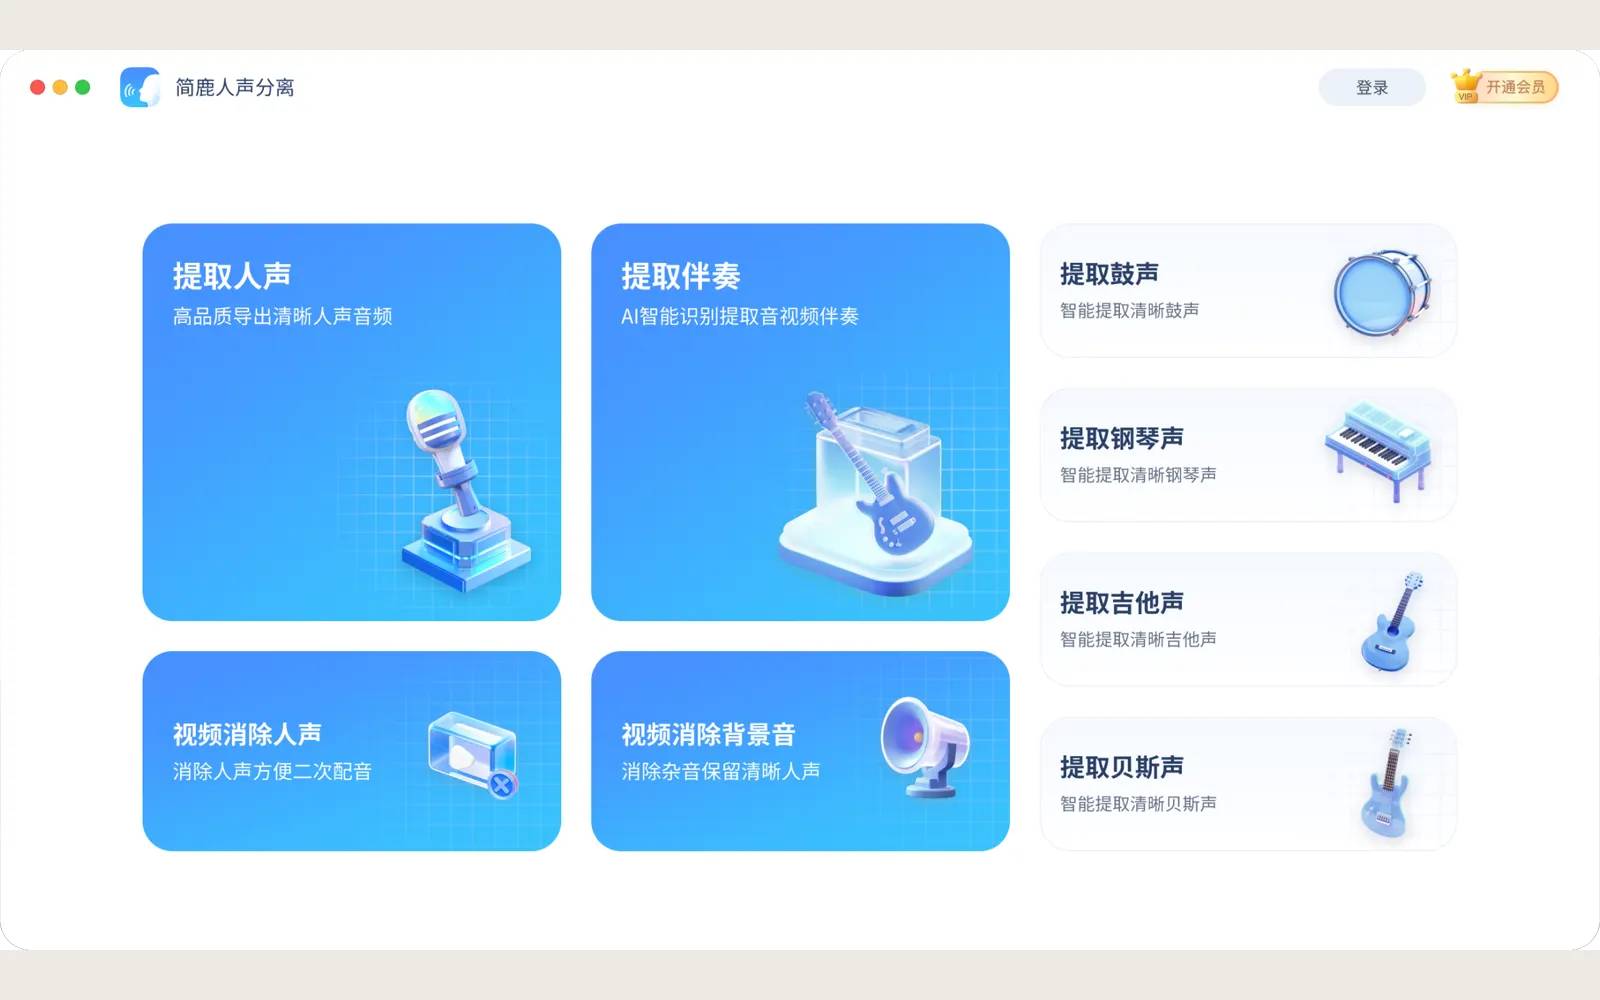
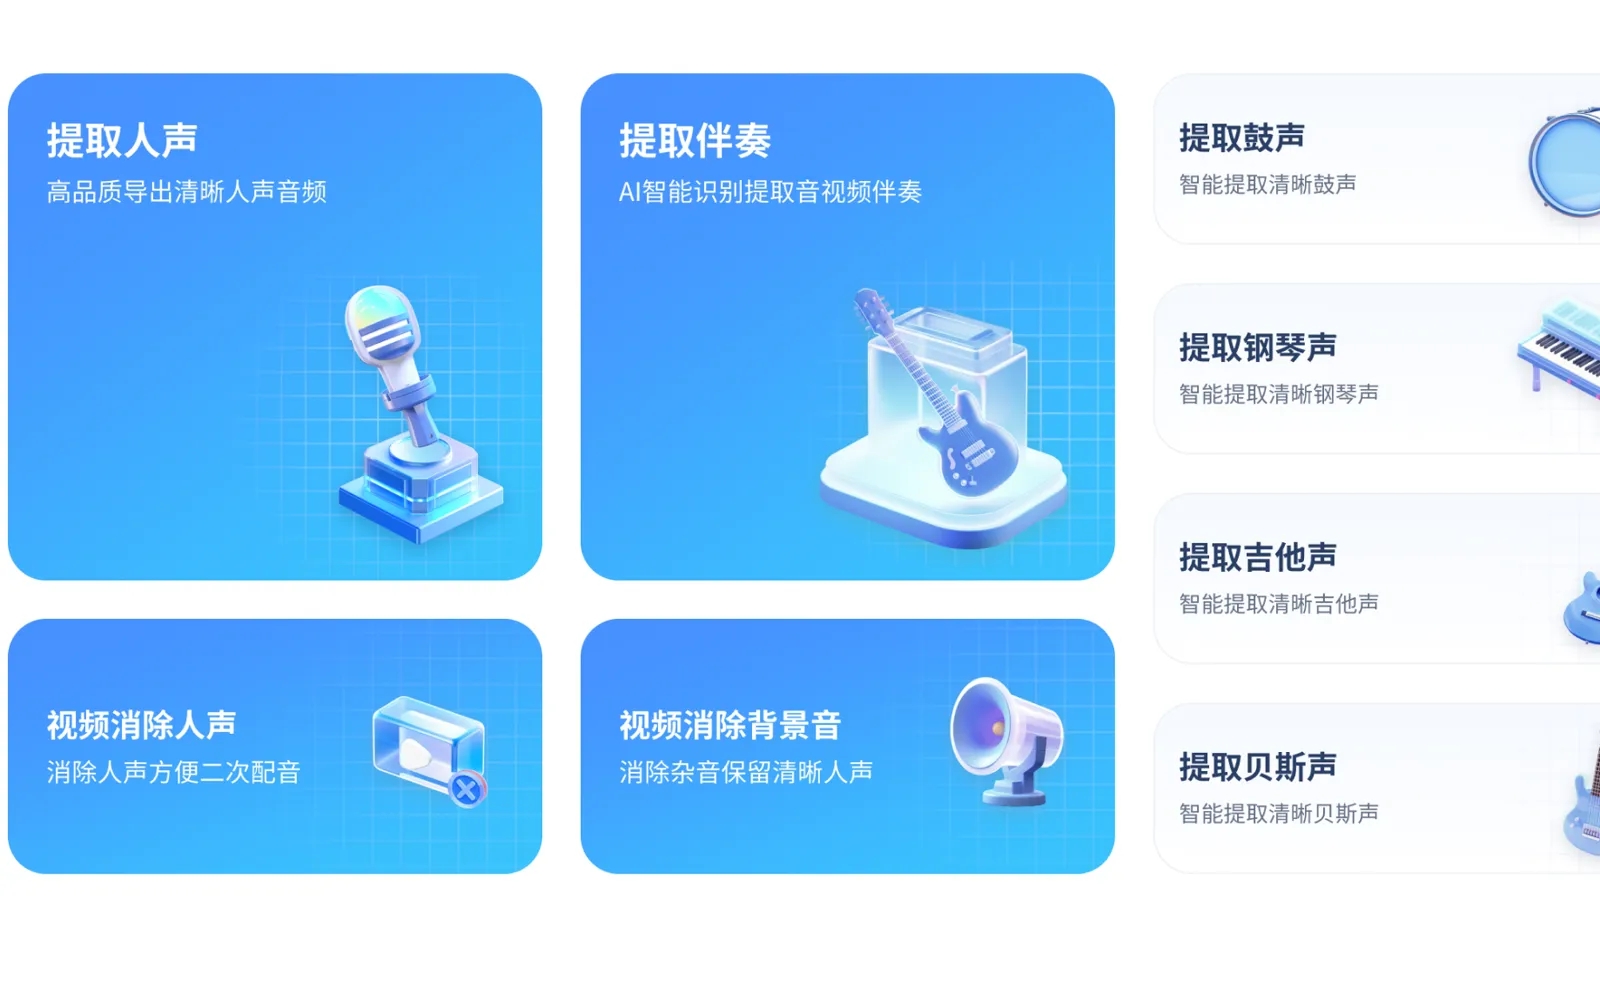
fix: frame project evidence screenshots

diff --git a/src/index.css b/src/index.css
@@ -601,21 +601,27 @@ img {
 }
 
 .project__detail {
+  --evidence-inset: clamp(0.75rem, 1.8vw, 1.35rem);
   position: relative;
   overflow: hidden;
   margin: 0;
   aspect-ratio: 8 / 5;
   border-radius: 1.25rem;
   background: #dedbd3;
-  box-shadow: 0 1rem 3rem rgba(25, 24, 22, 0.1);
 }
+
+.project--violet .project__detail { background: #dcd0f5; }
+.project--blue .project__detail { background: #bddcf3; }
+.project--red .project__detail { background: #f2cfd4; }
 
 .project__detail img {
   position: absolute;
-  inset: 0;
-  width: 100%;
-  height: 100%;
+  inset: var(--evidence-inset);
+  width: calc(100% - var(--evidence-inset) - var(--evidence-inset));
+  height: calc(100% - var(--evidence-inset) - var(--evidence-inset));
+  border-radius: 0.9rem;
   object-fit: cover;
+  box-shadow: 0 1rem 2.6rem rgba(25, 24, 22, 0.16);
   will-change: transform, filter, opacity, clip-path;
 }
 
@@ -1644,6 +1650,15 @@ img {
     margin-right: calc(var(--pad) * -1);
     margin-left: calc(var(--pad) * -1);
     border-radius: 0;
+  }
+
+  .project__detail {
+    --evidence-inset: 0.65rem;
+    border-radius: 1rem;
+  }
+
+  .project__detail img {
+    border-radius: 0.7rem;
   }
 
   .project__cover-label {

diff --git a/DESIGN.md b/DESIGN.md
@@ -165,6 +165,7 @@ components:
 
 - 项目不是同规格卡片网格，而是完整宽度的叙事章节。
 - 主界面置于项目色舞台内；细节图单独浮起，旁边使用线性事实列表解释设计判断。
+- 可切换的界面证据不再整块铺满容器，而是等比裁切后悬浮在对应项目色的留白舞台中；内层软件窗口承担柔和阴影，外层舞台保持平面。
 
 ### Contact Link
 
